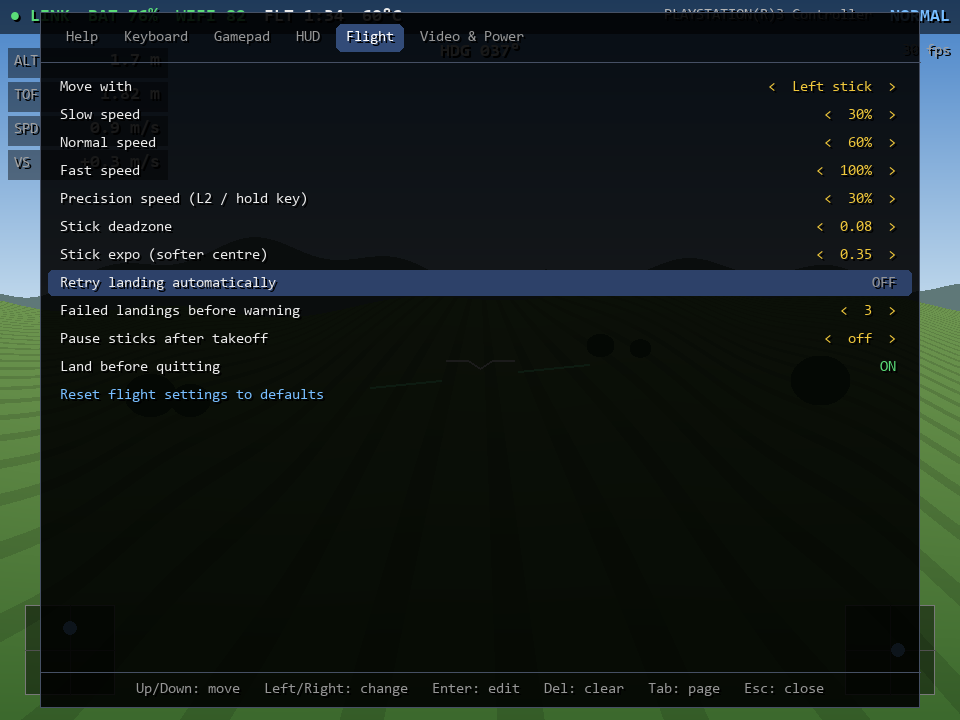
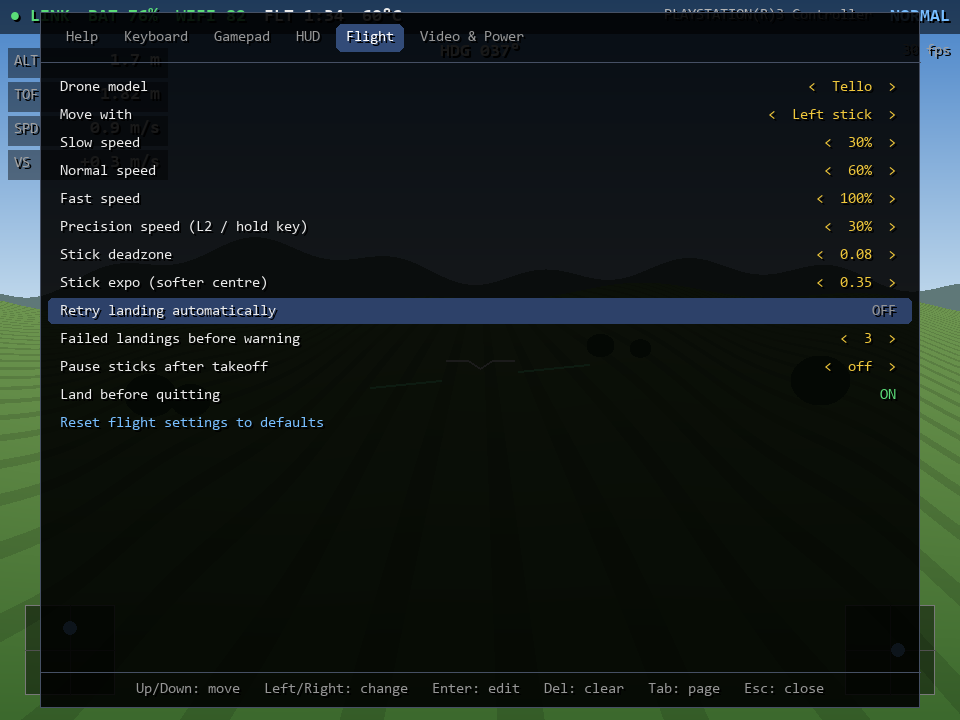
Add a drone model setting and hide what the model can't do
Settings > Flight > Drone model: Tello, Tello EDU or RoboMaster TT.
Stream resolution / frame rate / bitrate need SDK 3.0, which only the
RoboMaster TT has, so they are hidden and never sent on the others.

diff --git a/menu.py b/menu.py
@@ -4,7 +4,8 @@ import time
 
 import pygame
 
-from settings import KEY_ACTIONS, PAD_ACTIONS, help_rows, key_label, pad_label
+from settings import (DRONE_MODELS, KEY_ACTIONS, PAD_ACTIONS, help_rows, key_label, pad_label,
+                      stream_settings_supported)
 
 STREAM_KEYS = ("resolution", "stream_fps", "bitrate")  # SDK 3.0 only
 TABS = ["Help", "Keyboard", "Gamepad", "HUD", "Flight", "Video & Power"]
@@ -60,6 +61,7 @@ class Menu:
             return [Row("toggle", label, "hud", k) for k, label in items] + [reset("hud", "HUD")]
         if name == "Flight":
             return [
+                Row("choice", "Drone model", "drone", "model", DRONE_MODELS),
                 Row("choice", "Move with", "flight", "move_stick",
                     [("left", "Left stick"), ("right", "Right stick")]),
                 Row("number", "Slow speed", "flight", "speed_slow", lo=5, hi=100, step=5, fmt="{}%"),
@@ -77,20 +79,24 @@ class Menu:
                 Row("toggle", "Land before quitting", "flight", "land_on_quit"),
                 reset("flight", "flight settings"),
             ]
-        return [
-            Row("choice", "Video stream", "power", "video",
-                [("on", "On"), ("flying", "Only while flying"), ("off", "Off")]),
+        stream = [
             Row("choice", "Stream resolution *", "power", "resolution",
                 [("default", "Drone default"), ("high", "High (720p)"), ("low", "Low (480p)")]),
             Row("choice", "Stream frame rate *", "power", "stream_fps",
                 [("default", "Drone default"), ("high", "High (30)"), ("middle", "Middle (15)"), ("low", "Low (5)")]),
             Row("choice", "Stream bitrate *", "power", "bitrate",
                 [("default", "Drone default"), ("auto", "Auto")] + [(str(n), f"{n} Mbps") for n in range(1, 6)]),
+        ] if stream_settings_supported(self.settings) else []
+        return [
+            Row("choice", "Video stream", "power", "video",
+                [("flying", "Only while flying"), ("on", "On"), ("off", "Off")]),
+            *stream,
             Row("choice", "App frame rate", "power", "app_fps", [(20, "20 fps"), (30, "30 fps"), (60, "60 fps")]),
             Row("choice", "Auto-land at battery", "power", "auto_land_battery",
                 [(0, "Off")] + [(n, f"{n}%") for n in (10, 15, 20, 25, 30)]),
             Row("number", "Low battery warning", "power", "low_battery_warning", lo=5, hi=50, step=5, fmt="{}%"),
-            Row("info", "* needs Tello SDK 3.0 firmware; most Tellos don't have it and keep their defaults"),
+            Row("info", "* RoboMaster TT only; if it still says \"not supported\", update its firmware"
+                if stream else "Stream quality settings: RoboMaster TT only (Flight > Drone model)"),
             Row("info", "\"Only while flying\" keeps the drone cool on the ground and saves battery;"),
             Row("info", "a lower app frame rate saves PC battery."),
             reset("power", "video & power"),

diff --git a/tello_revived.py b/tello_revived.py
@@ -27,7 +27,7 @@ import pygame
 from pygame._sdl2 import controller as sdl_controller
 
 from menu import Menu
-from settings import Settings, data_dir, key_label, pad_label, resource_dir
+from settings import Settings, data_dir, key_label, pad_label, resource_dir, stream_settings_supported
 
 TELLO_ADDR = ("192.168.10.1", 8889)
 CMD_PORT = 8889
@@ -179,6 +179,8 @@ class Tello:
     def apply_stream_settings(self):
         """Send the stream quality settings that aren't left at the drone's default."""
         p = self.settings["power"]
+        if not stream_settings_supported(self.settings):
+            return  # the user's model can't, so don't even ask
         cmds = []
         if p["resolution"] != "default":
             cmds.append(f"setresolution {p['resolution']}")
@@ -543,7 +545,7 @@ class App:
 
     def on_setting_changed(self, section, key):
         stream_keys = (None, "resolution", "stream_fps", "bitrate")
-        if section == "power" and key in stream_keys and self.tello.session:
+        if (section == "drone" or section == "power" and key in stream_keys) and self.tello.session:
             threading.Thread(target=self.tello.apply_stream_settings, daemon=True).start()
 
     def photo(self):

diff --git a/settings.py b/settings.py
@@ -47,6 +47,9 @@ DEFAULTS = {
         "top_bar": True, "flight_data": True, "heading": True, "attitude": True,
         "sticks": True, "messages": True, "hint_bar": True, "video_fps": True,
     },
+    "drone": {
+        "model": "tello",           # tello / edu / tt - only the RoboMaster TT (SDK 3.0) can change stream quality
+    },
     "flight": {
         "move_stick": "left",
         "speed_slow": 30, "speed_normal": 60, "speed_fast": 100,
@@ -61,6 +64,14 @@ DEFAULTS = {
         "app_fps": 60, "auto_land_battery": 0, "low_battery_warning": 20,
     },
 }
+
+DRONE_MODELS = [("tello", "Tello"), ("edu", "Tello EDU"), ("tt", "RoboMaster TT")]
+
+
+def stream_settings_supported(settings):
+    """Only SDK 3.0 (RoboMaster TT) has setresolution / setfps / setbitrate."""
+    return settings["drone"]["model"] == "tt"
+
 
 KEY_ACTIONS = [
     ("forward", "Move forward"), ("back", "Move back"), ("left", "Move left"), ("right", "Move right"),

diff --git a/tools/make_screenshots.py b/tools/make_screenshots.py
@@ -95,7 +95,7 @@ for tab in ("Help", "Keyboard", "Gamepad", "Flight", "Video & Power"):
     if tab == "Keyboard":
         app.menu.sel = 10
     if tab == "Flight":
-        app.menu.sel = 7
+        app.menu.sel = 8
     shot("menu_" + tab.split()[0].lower())
 app.menu.close()
 

diff --git a/README.md b/README.md
@@ -67,7 +67,7 @@ While landing, or after a landing fails, the emergency stop is added to the fron
 | Help / settings | `H` / `O` | Start |
 | Fullscreen / quit | `F11` / `Esc` | |
 
-To swap which stick moves and which climbs and turns, go to **Settings → Flight → Move with**.
+To swap which stick moves and which climbs and turns, go to **Settings → Flight → Move with**. Set your drone under **Settings → Flight → Drone model** (Tello, Tello EDU or RoboMaster TT); settings your drone doesn't support are hidden.
 
 ## Settings screen
 
@@ -100,7 +100,7 @@ Turn on **Settings → Flight → Retry landing automatically** if you want the 
 All of these are on the **Video & Power** page:
 
 - **Video stream** is **Only while flying** by default, because the Tello gets very hot when it streams sitting on the ground. Choose **On** to see the camera before takeoff, or **Off** for no video at all.
-- **Stream resolution / frame rate / bitrate** lower the stream quality. These need Tello firmware with SDK 3.0, which most Tellos don't have. If yours doesn't, the app says so once, marks them "not supported" and the drone keeps its defaults.
+- **Stream resolution / frame rate / bitrate** lower the stream quality. Only the RoboMaster TT (SDK 3.0) supports them, so they only appear when **Settings → Flight → Drone model** is set to **RoboMaster TT**. A regular Tello (SDK 1.3) or Tello EDU (SDK 2.0) can't get them through a firmware update, and everything else in the app works on all three.
 - **Auto-land at battery** lands once per flight when the battery reaches that level.
 - **App frame rate** lowers how often the window is redrawn, which saves laptop battery. Nothing is drawn while the window is minimised.
 
